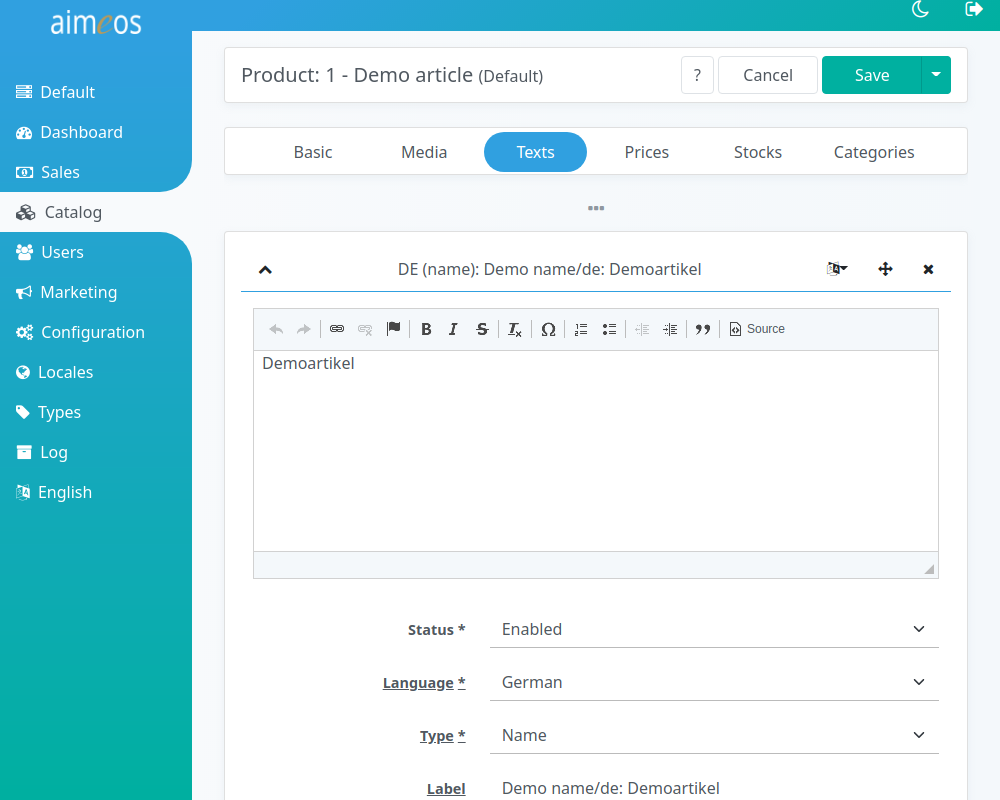
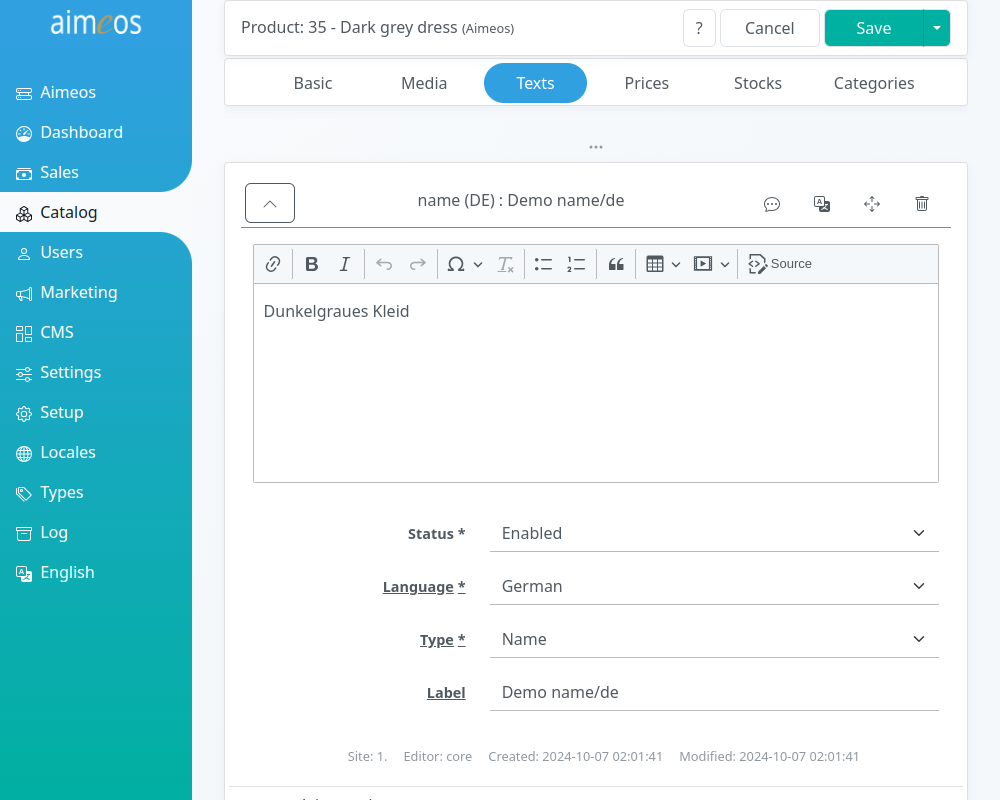
Added description of AI button in text sub-panels

diff --git a/src/manual/product-details.md b/src/manual/product-details.md
@@ -114,6 +114,13 @@ Meta keywords
 Meta description
 : Product description that is shown by search engines in their result list
 
+In the header of each text panel, there are two icons at the upper right side offering AI features:
+
+AI translation
+: By clicking on the translation icon, you can translate the current text within the text editor field to other languages using DeepL, a AI-based translation service. After selecting the destination language, Aimeos will add the translated text in a new text box below. A DeepL API key needs to be configured to use this service.
+
+AI text generation
+: The icon with the chat bubble asks ChatGPT to generate text based on the prompt you've entered in the editor field. The generated result will replace the prompt in the text editor field. A ChatGPT API key is required to use this service.
 
 # Prices
 
